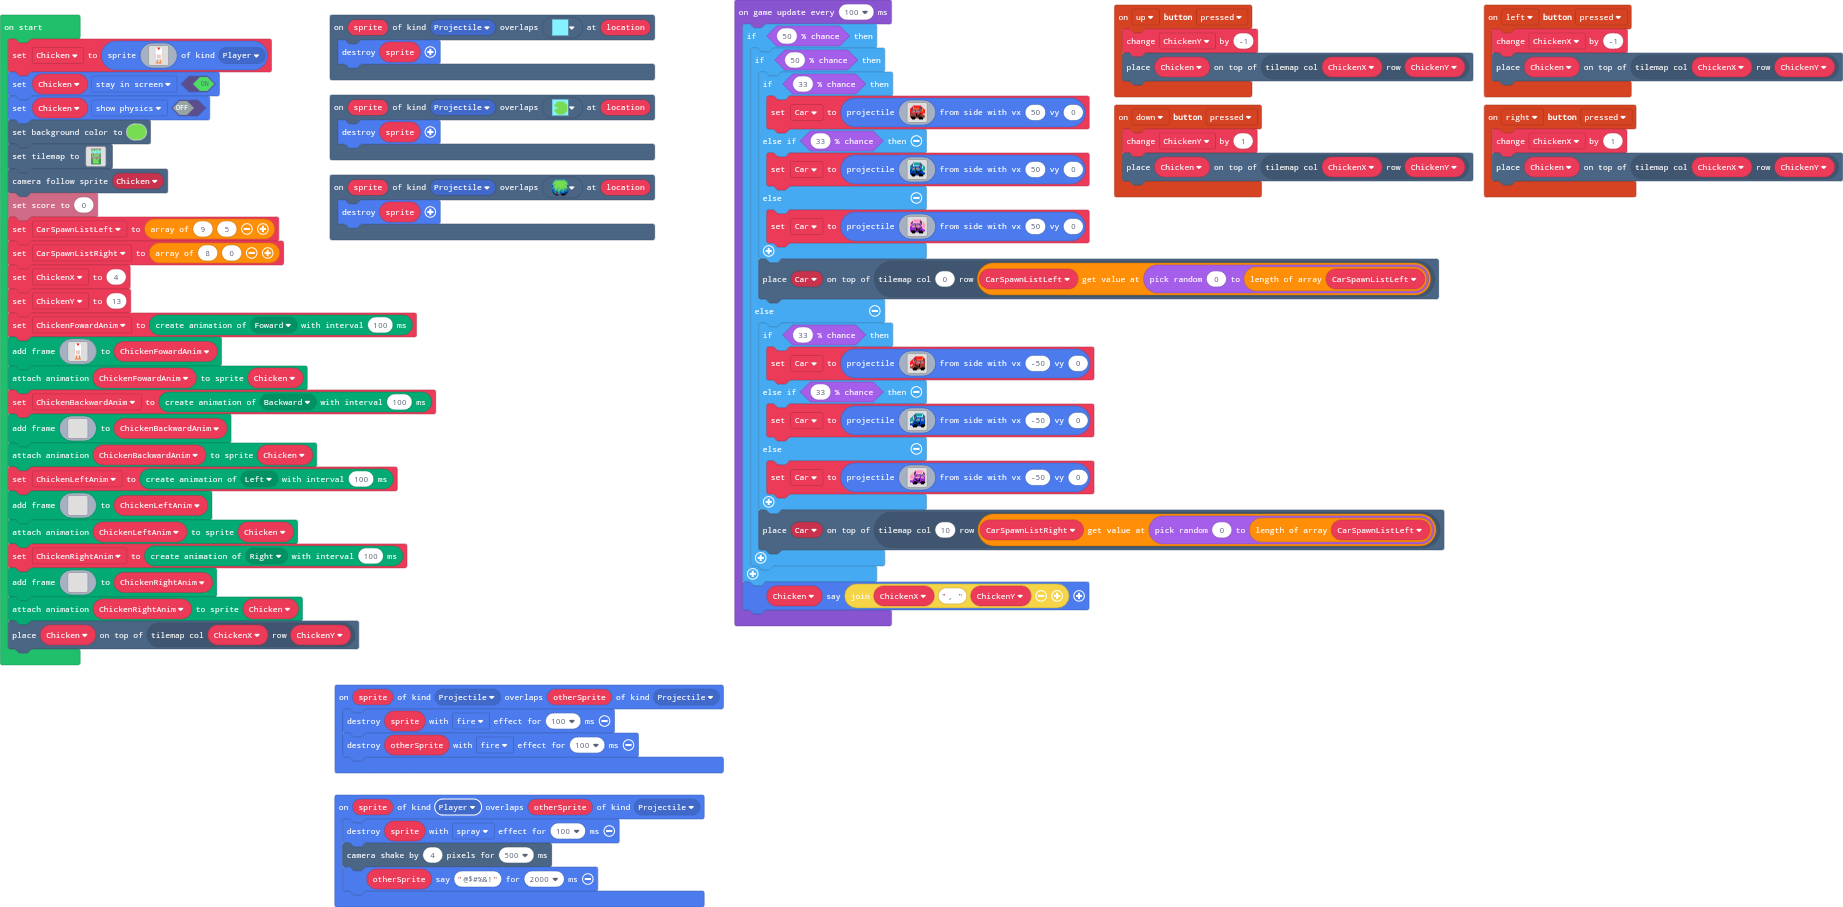
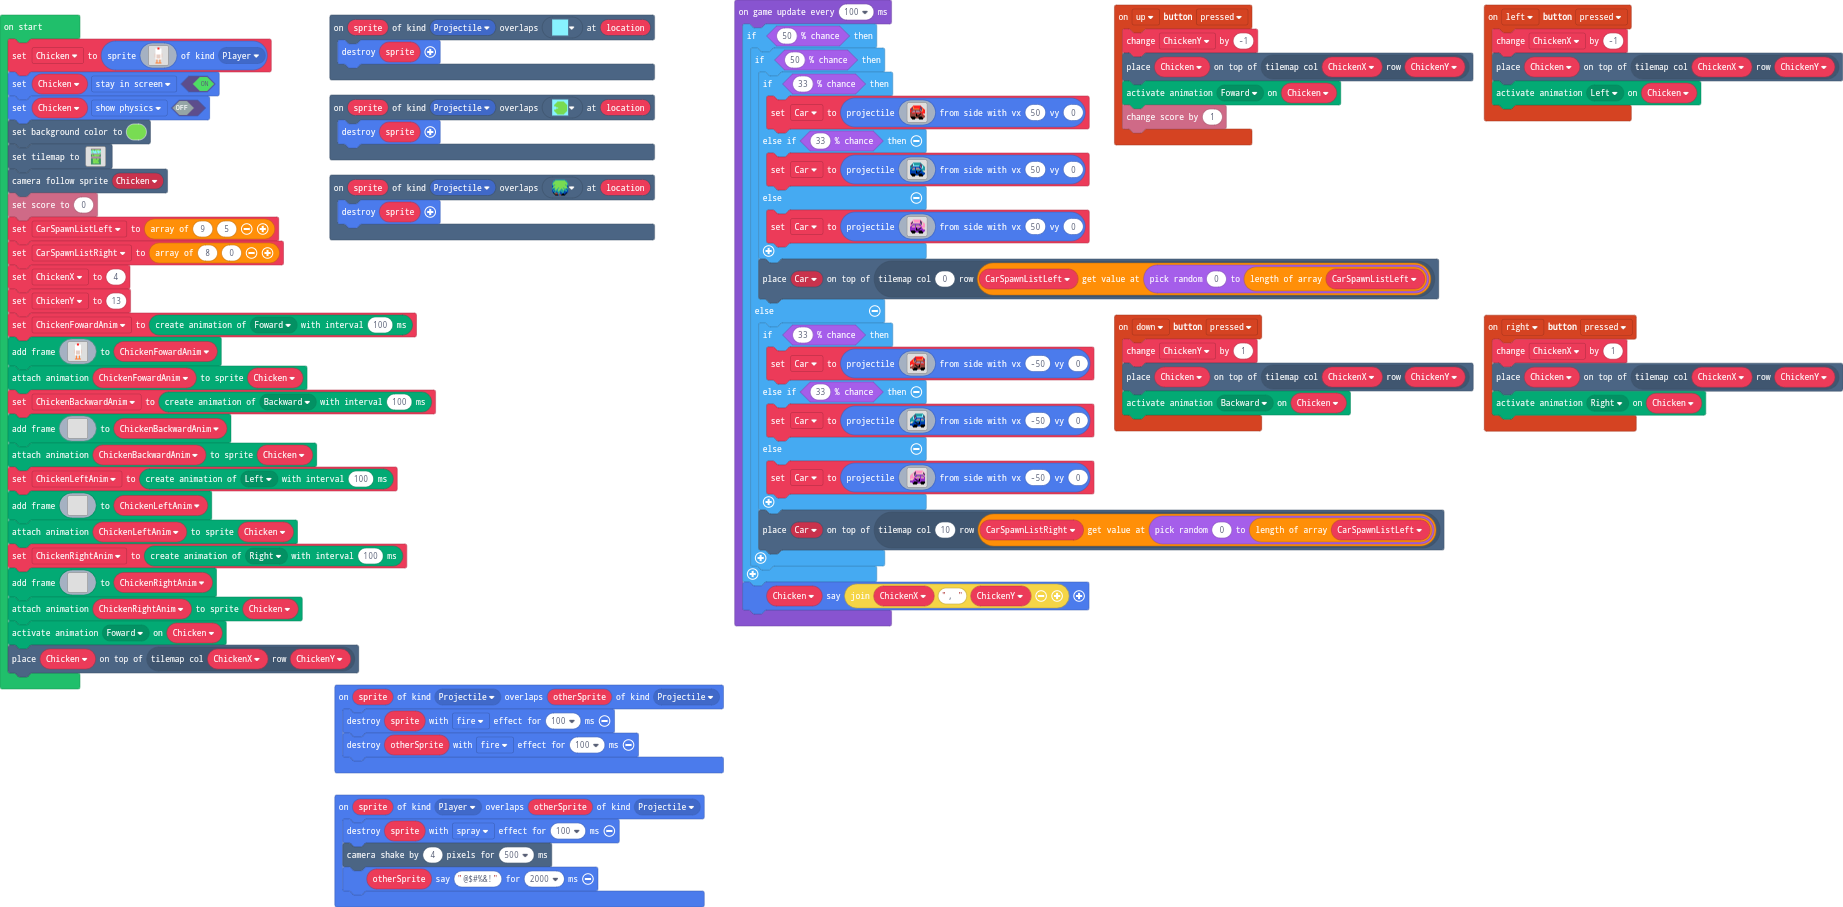
Update main.blocks, main.ts

diff --git a/main.ts b/main.ts
@@ -88,10 +88,12 @@ namespace myTiles {
 controller.left.onEvent(ControllerButtonEvent.Pressed, function () {
     ChickenX += -1
     tiles.placeOnTile(Chicken, tiles.getTileLocation(ChickenX, ChickenY))
+    animation.setAction(Chicken, ActionKind.Left)
 })
 controller.down.onEvent(ControllerButtonEvent.Pressed, function () {
     ChickenY += 1
     tiles.placeOnTile(Chicken, tiles.getTileLocation(ChickenX, ChickenY))
+    animation.setAction(Chicken, ActionKind.Backward)
 })
 scene.onOverlapTile(SpriteKind.Projectile, myTiles.tile3, function (sprite, location) {
     sprite.destroy()
@@ -108,6 +110,7 @@ sprites.onOverlap(SpriteKind.Projectile, SpriteKind.Projectile, function (sprite
 controller.right.onEvent(ControllerButtonEvent.Pressed, function () {
     ChickenX += 1
     tiles.placeOnTile(Chicken, tiles.getTileLocation(ChickenX, ChickenY))
+    animation.setAction(Chicken, ActionKind.Right)
 })
 scene.onOverlapTile(SpriteKind.Projectile, sprites.builtin.forestTiles0, function (sprite, location) {
     sprite.destroy()
@@ -115,6 +118,8 @@ scene.onOverlapTile(SpriteKind.Projectile, sprites.builtin.forestTiles0, functio
 controller.up.onEvent(ControllerButtonEvent.Pressed, function () {
     ChickenY += -1
     tiles.placeOnTile(Chicken, tiles.getTileLocation(ChickenX, ChickenY))
+    animation.setAction(Chicken, ActionKind.Foward)
+    info.changeScoreBy(1)
 })
 scene.onOverlapTile(SpriteKind.Projectile, myTiles.tile2, function (sprite, location) {
     sprite.destroy()
@@ -253,6 +258,7 @@ ChickenRightAnim.addAnimationFrame(img`
 . . . . . . . . . . . . . . . . 
 `)
 animation.attachAnimation(Chicken, ChickenRightAnim)
+animation.setAction(Chicken, ActionKind.Foward)
 tiles.placeOnTile(Chicken, tiles.getTileLocation(ChickenX, ChickenY))
 game.onUpdateInterval(100, function () {
     if (Math.percentChance(50)) {
